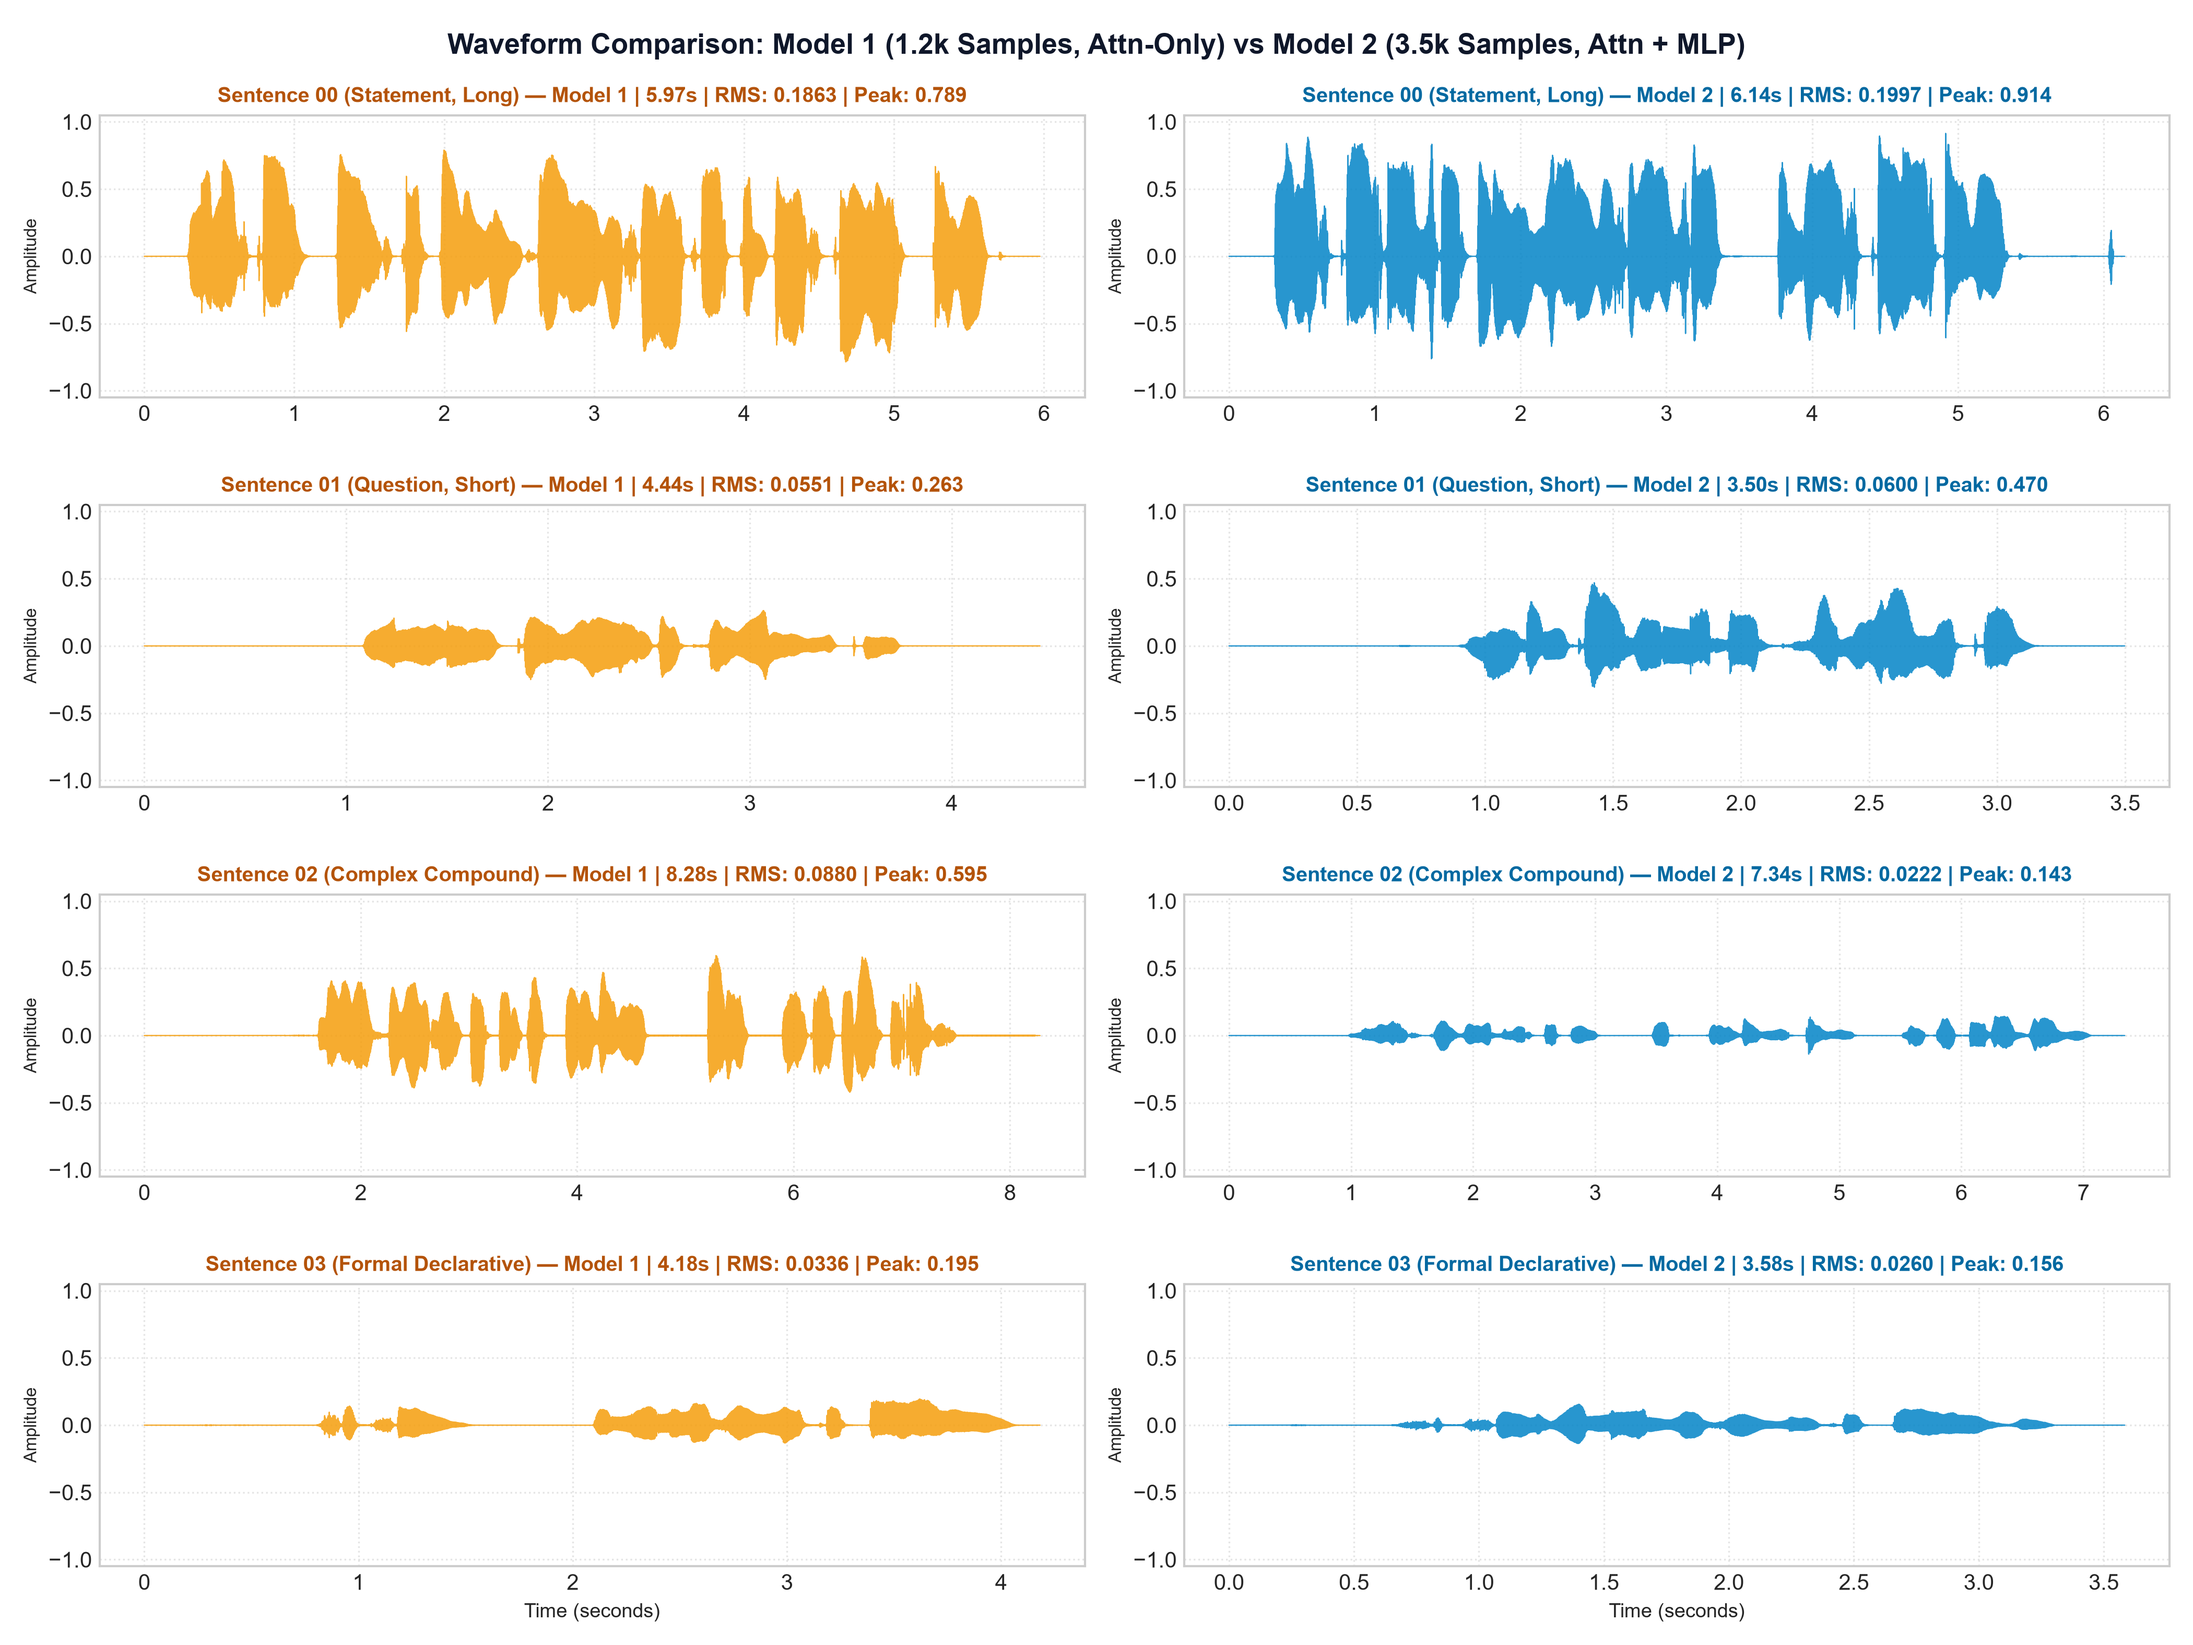
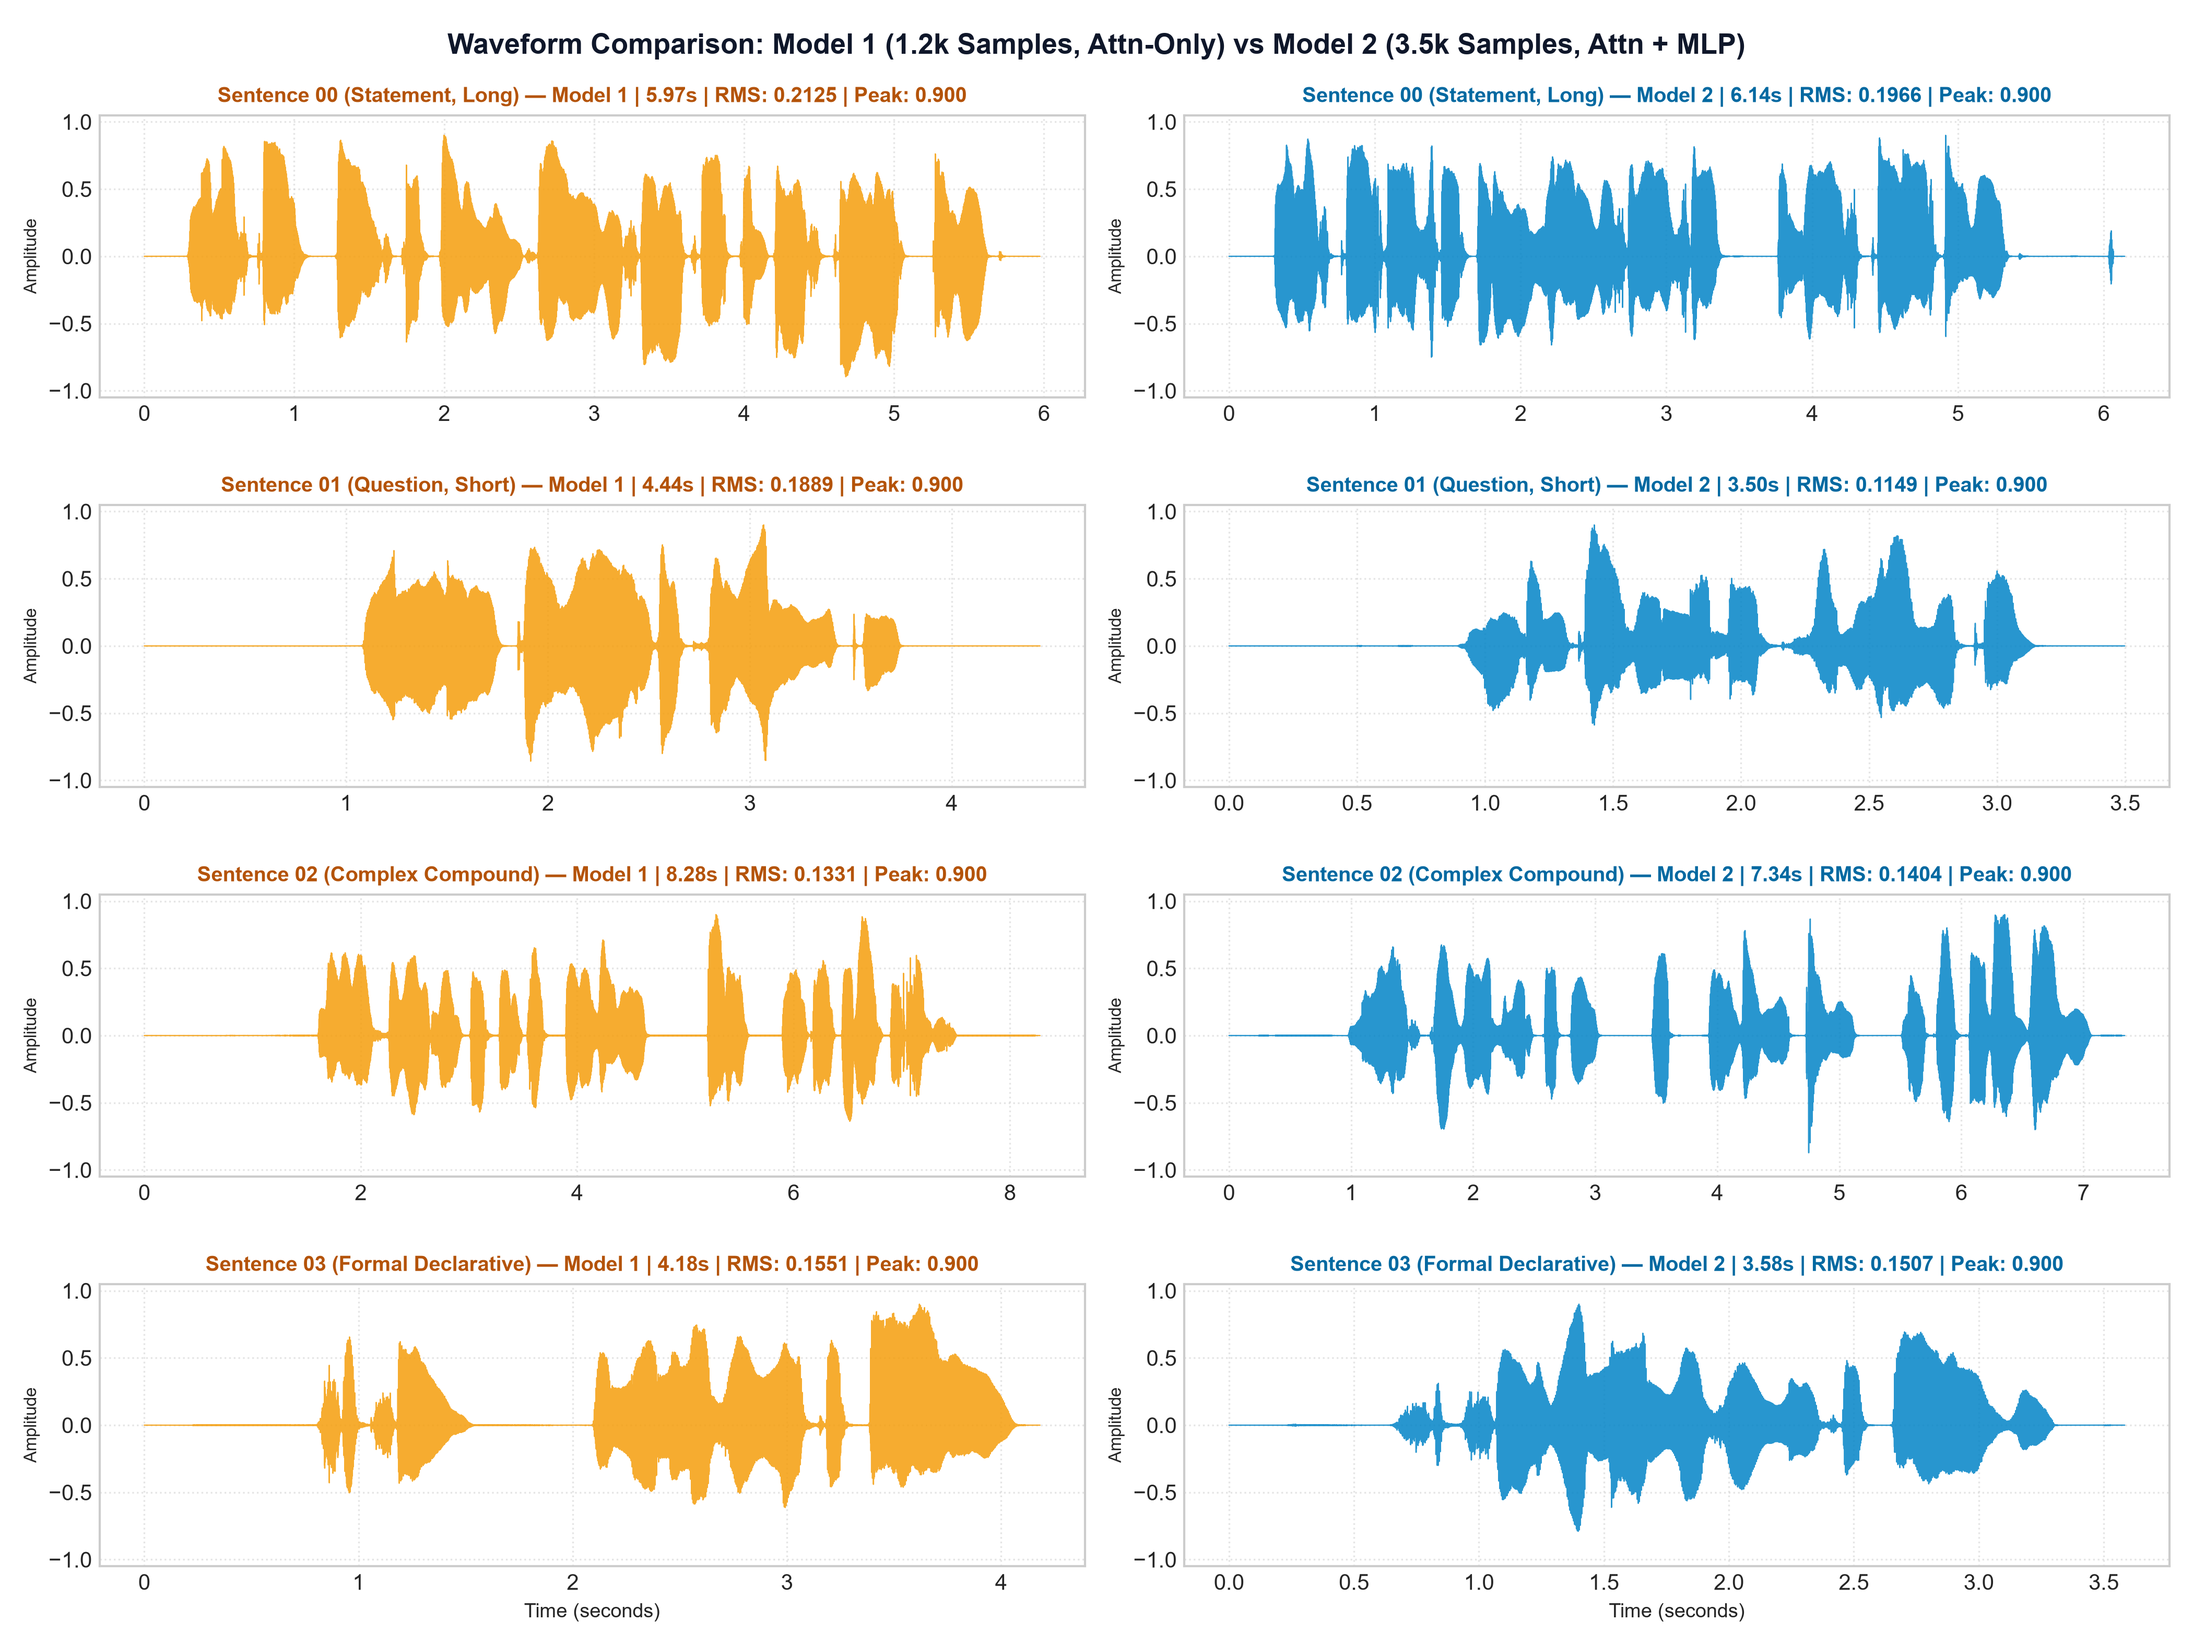
Add peak normalization to inference pipeline and audio normalization script

diff --git a/scripts/normalize_audio.py b/scripts/normalize_audio.py
@@ -1,0 +1,39 @@
+"""
+Audio peak normalization script for generated TTS wav files.
+Scales audio to target peak amplitude so all samples have consistent loudness.
+"""
+
+import argparse
+from pathlib import Path
+import numpy as np
+import soundfile as sf
+
+
+def normalize_file(wav_path: Path, target_peak: float = 0.90) -> None:
+    data, sr = sf.read(str(wav_path))
+    peak = np.max(np.abs(data))
+    if peak < 1e-4:
+        return
+    normalized = (data / peak) * target_peak
+    sf.write(str(wav_path), normalized, sr)
+    rms_before = np.sqrt(np.mean(data**2))
+    rms_after = np.sqrt(np.mean(normalized**2))
+    print(f"Normalized {wav_path.name}: peak {peak:.3f} -> {target_peak:.2f}, RMS {rms_before:.4f} -> {rms_after:.4f}")
+
+
+def main():
+    parser = argparse.ArgumentParser(description="Normalize WAV files to consistent peak level")
+    parser.add_argument("path", help="WAV file or directory containing WAV files")
+    parser.add_argument("--peak", type=float, default=0.90, help="Target peak amplitude (default: 0.90)")
+    args = parser.parse_args()
+
+    target = Path(args.path)
+    if target.is_file() and target.suffix.lower() == ".wav":
+        normalize_file(target, args.peak)
+    elif target.is_dir():
+        for wav_file in sorted(target.rglob("*.wav")):
+            normalize_file(wav_file, args.peak)
+
+
+if __name__ == "__main__":
+    main()

diff --git a/src/inference.py b/src/inference.py
@@ -94,6 +94,9 @@ def generate_speech(
             wav = snac_model.decoder(z_q)
 
         waveform = wav[0, 0].clamp(-1, 1).float().cpu().numpy()
+        peak = np.max(np.abs(waveform))
+        if peak > 1e-4:
+            waveform = (waveform / peak) * 0.90
         return waveform, num_audio_tokens, len(prompt_ids)
 
 
